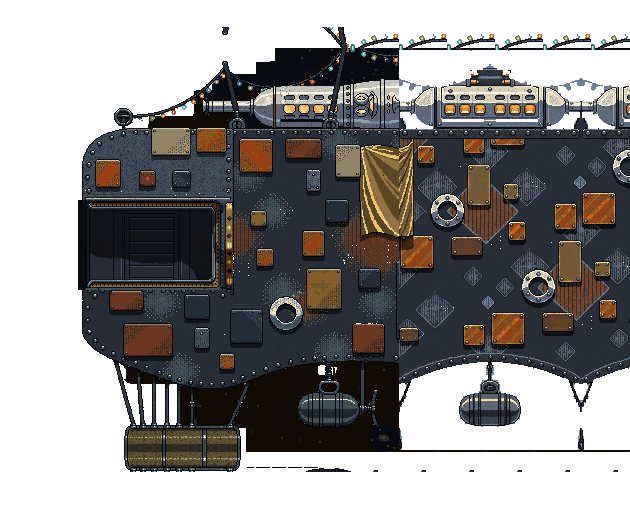
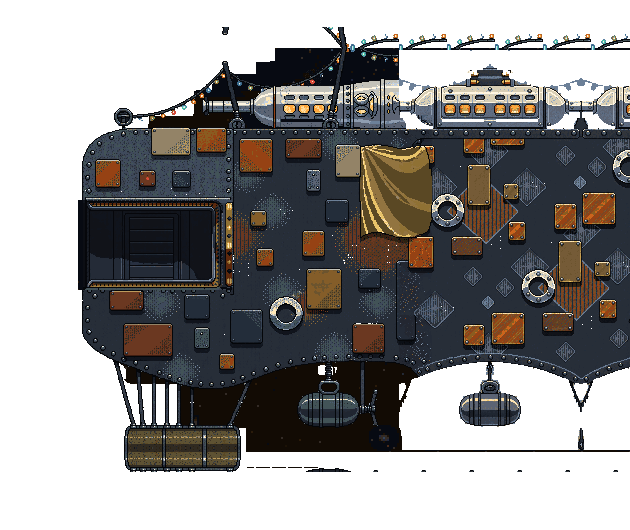
The Shanty's painted end meets its plate: two inpaints across the join
The Shanty's pixflux end met the seen plate with a step in the top rivet
line and its gold drape cut square at x 399. Two /v1/inpaint calls (200x200,
1 generation each) repainted only the first 33 painted columns beside the
join, the seen plate in view and untouched: the drape now closes in a fold,
the rivet lines and the hull's lower edge run on across. 9 of the 10
approved generations spent in all (ledger in art/stations/src/painted/).

Changed region(s): [[0.6333, 0.2113, 0.6937, 0.5434], [0.6333, 0.5434, 0.6937, 0.7245]]

diff --git a/tkg/art/stations/src/painted/seamfix.py b/tkg/art/stations/src/painted/seamfix.py
@@ -1,0 +1,61 @@
+"""seamfix.py <plate> <x0> <y0> <mx0> <mx1> [--go]: one /v1/inpaint call (200 x 200, the plate's crop at x0,y0) that
+repaints only the painted side's first columns mx0..mx1 (plate px, all >= 399) so they meet the seen plate; the seen
+pixels are never in the mask. Counts against the same ledger and cap as ends.py."""
+import base64, io, json, os, sys, time, urllib.request, urllib.error
+import numpy as np
+from PIL import Image
+
+HERE = os.path.dirname(os.path.abspath(__file__))
+sys.path.insert(0, HERE)
+import ends  # noqa: E402
+
+API = "https://api.pixellab.ai/v1/inpaint"
+name = sys.argv[1]
+x0, y0, mx0, mx1 = map(int, sys.argv[2:6])
+assert mx0 >= 399
+plate_p = os.path.join(HERE, "joined", name + ".png")
+full = np.asarray(Image.open(plate_p).convert("RGBA")).copy()
+crop = full[y0:y0 + 200, x0:x0 + 200].copy()
+mask = np.zeros((200, 200), np.uint8)
+my0 = int(sys.argv[sys.argv.index("--my0") + 1]) if "--my0" in sys.argv else y0
+mask[my0 - y0:, mx0 - x0:mx1 - x0] = 255
+os.makedirs(os.path.join(HERE, "seam"), exist_ok=True)
+Image.fromarray(crop).save(os.path.join(HERE, "seam", "%s_%d_in.png" % (name, y0)))
+Image.fromarray(mask).save(os.path.join(HERE, "seam", "%s_%d_mask.png" % (name, y0)))
+
+
+def b64img(a):
+    b = io.BytesIO(); Image.fromarray(a).save(b, "PNG"); return base64.b64encode(b.getvalue()).decode("ascii")
+
+
+if "--go" not in sys.argv:
+    print("prepared; nothing sent"); sys.exit(0)
+L = ends.ledger()
+if L["spent"] + 1 > ends.CAP:
+    sys.exit("cap: nothing sent")
+k = os.environ.get("PIXELLAB_API_KEY", "").strip()
+if not k:
+    sys.exit("no key; nothing sent")
+j = ends.PLATES[name]
+body = {"description": j["prompt"], "negative_description": ends.NEG, "image_size": {"width": 200, "height": 200},
+        "view": "side", "outline": "single color black outline", "shading": "detailed shading", "detail": "highly detailed",
+        "text_guidance_scale": 6, "seed": 62001 + y0, "inpainting_image": {"type": "base64", "base64": b64img(crop)},
+        "mask_image": {"type": "base64", "base64": b64img(mask)},
+        "color_image": {"type": "base64", "base64": base64.b64encode(open(os.path.join(HERE, "pal_%s.png" % name), "rb").read()).decode("ascii")}}
+t0 = time.time()
+req = urllib.request.Request(API, data=json.dumps(body).encode("utf-8"), headers={"Authorization": "Bearer " + k, "Content-Type": "application/json"})
+try:
+    with urllib.request.urlopen(req, timeout=300) as r:
+        out = json.loads(r.read().decode("utf-8"))
+except urllib.error.HTTPError as e:
+    sys.exit("refused: HTTP %d %s" % (e.code, e.read()[:300].decode("utf-8", "replace")))
+u = out.get("usage") or {}
+img = base64.b64decode(out["image"]["base64"].split(",")[-1])
+open(os.path.join(HERE, "seam", "%s_%d_out.png" % (name, y0)), "wb").write(img)
+gens = float(u.get("generations", 0)) if u.get("type") == "generations" else None
+L["spent"] += gens if gens is not None else 1.0
+L["takes"].append(dict(tag="%s__seam_%d_%d" % (name, x0, y0), plate=name, tool="inpaint (HTTP API v1)", usage=u, seconds=round(time.time() - t0, 1)))
+json.dump(L, open(ends.LEDGER, "w"), indent=1)
+print("seam take usage", u, "spent now %.0f of %d" % (L["spent"], ends.CAP))
+if gens != 1.0:
+    print("USAGE NOT EXACTLY 1 GENERATION: STOP"); sys.exit(2)
